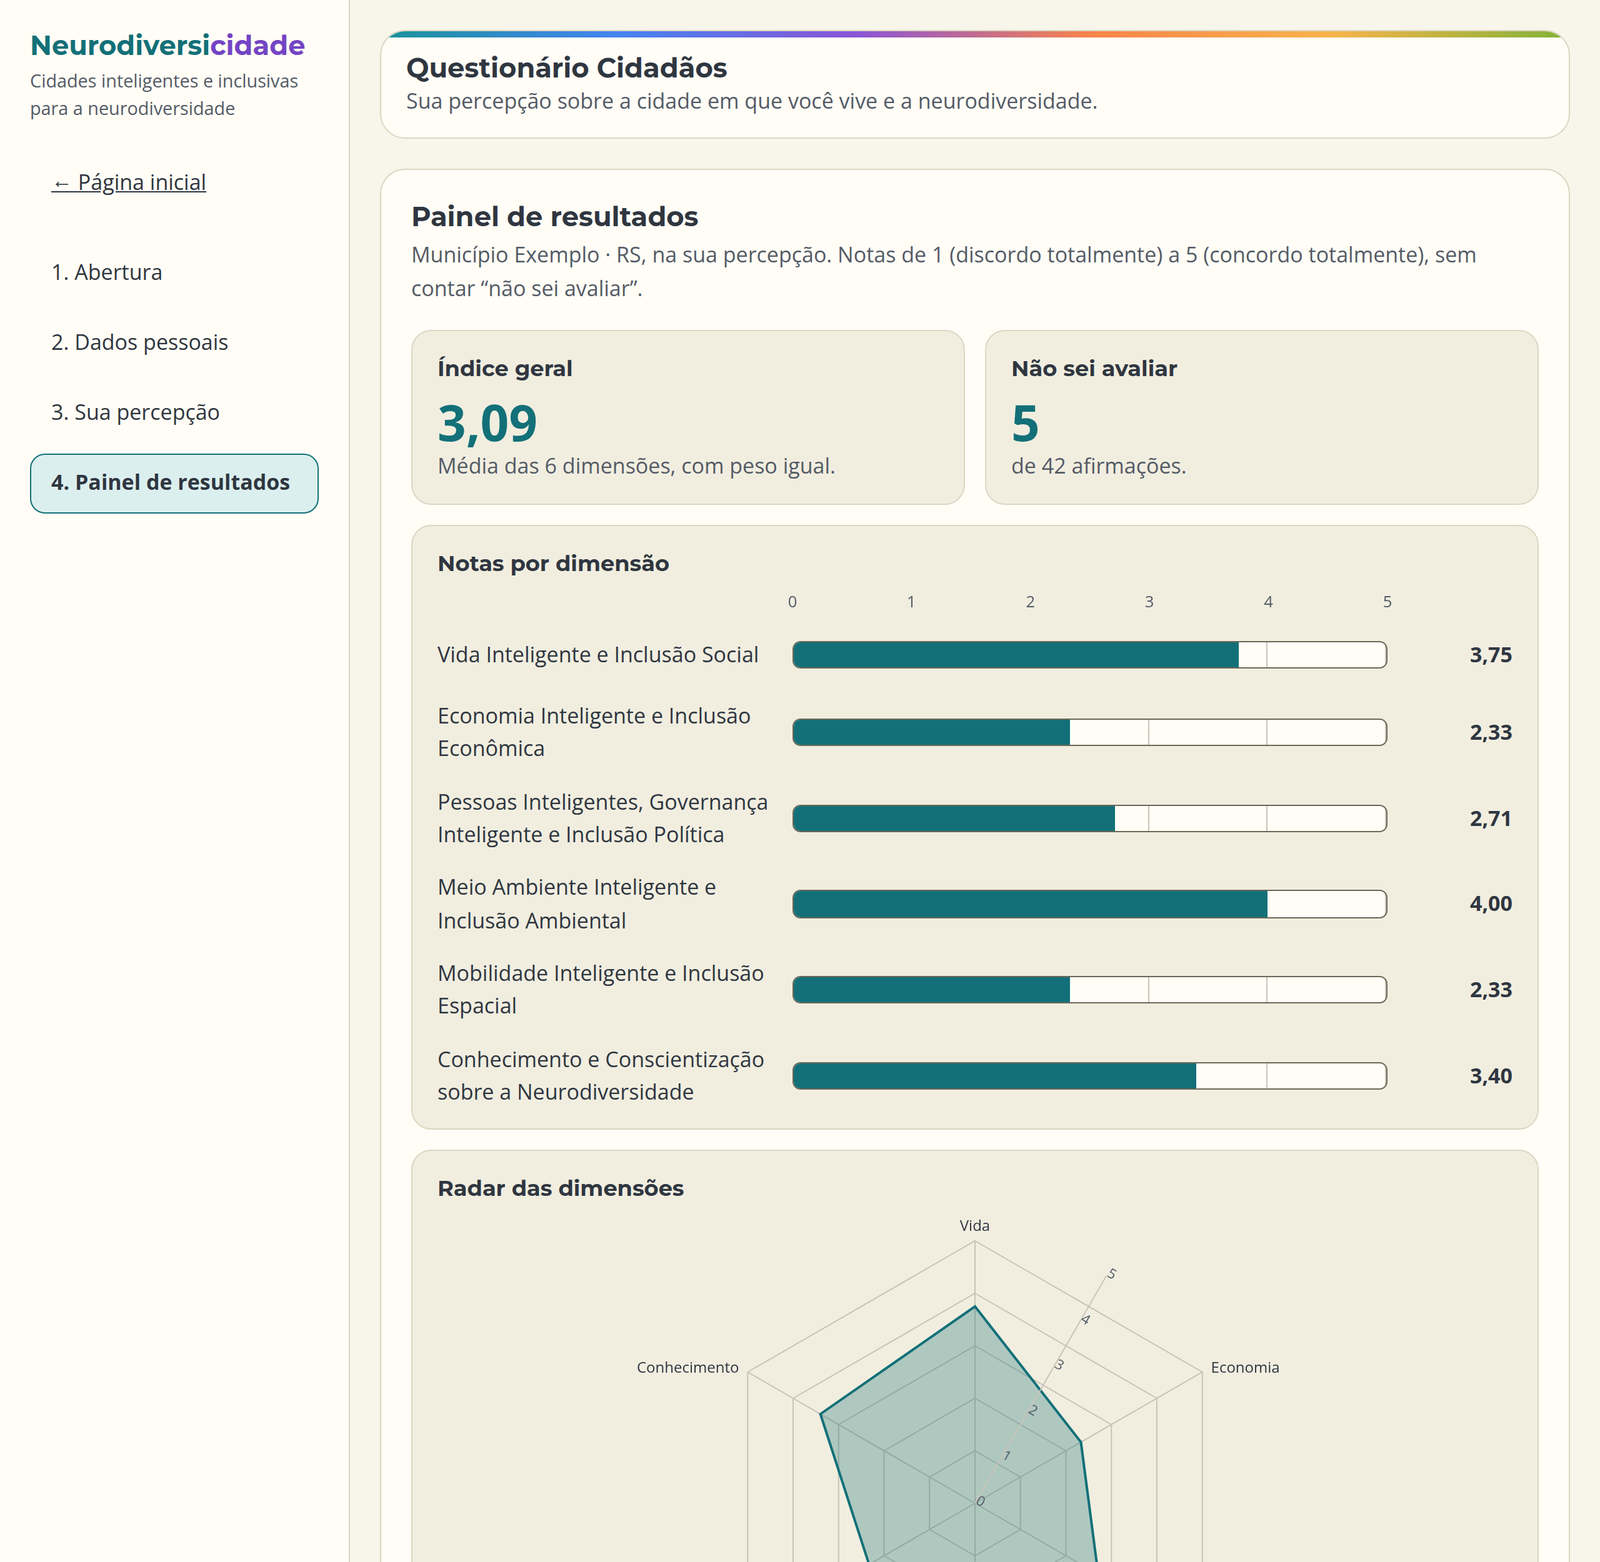
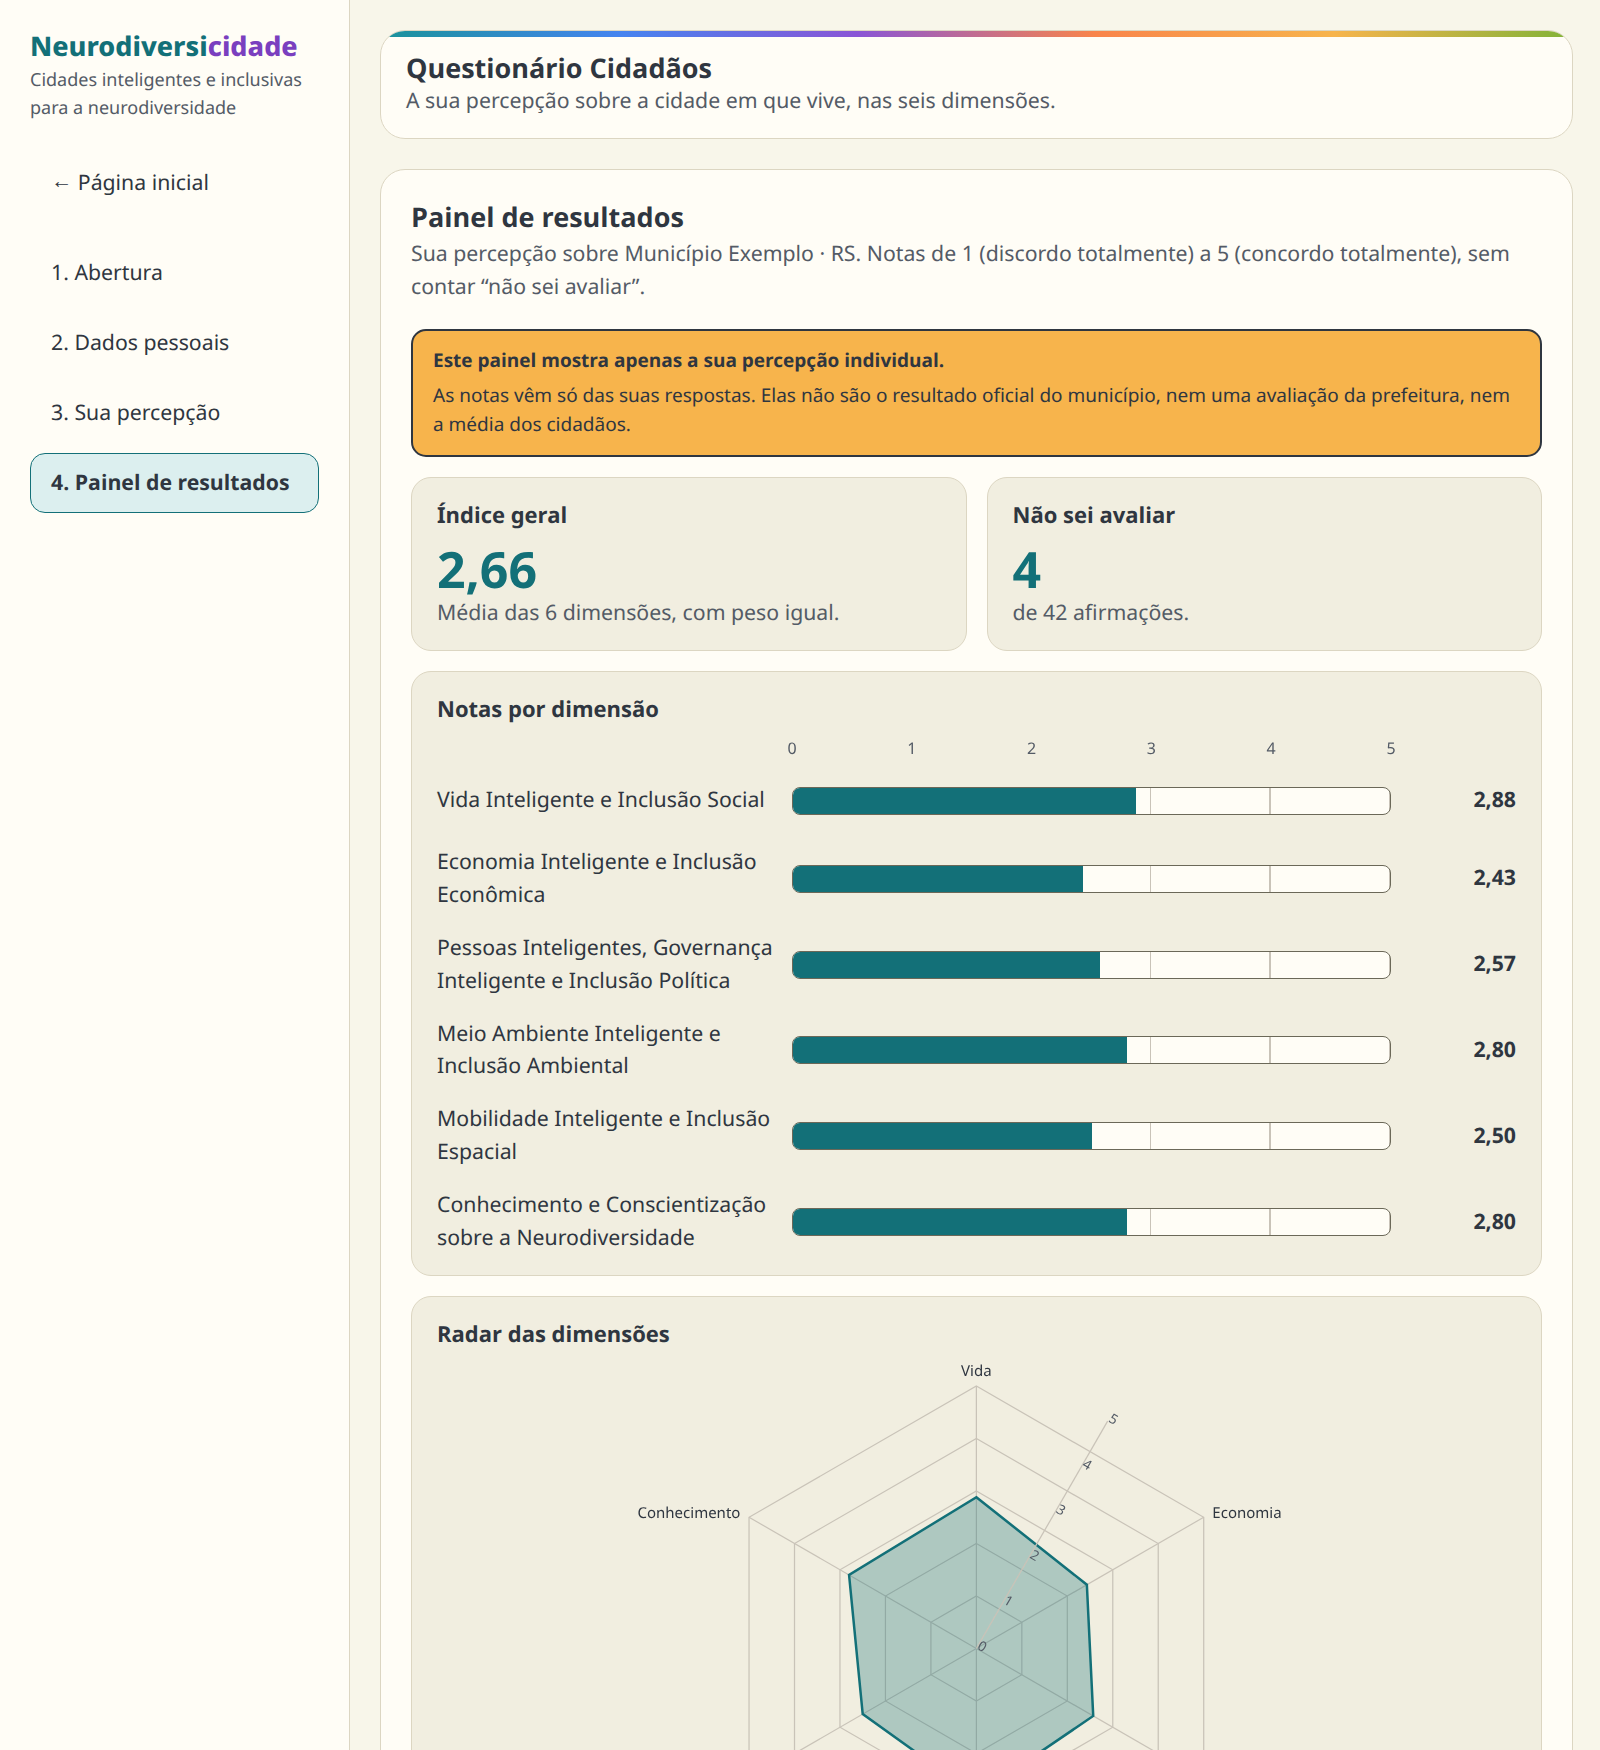
docs: refresh screenshots, add mobile views and citizen PDF

diff --git a/README.md b/README.md
@@ -7,7 +7,8 @@ pessoas neurodivergentes, com dois públicos:
   recebem na hora um painel com gráficos, um relatório em PDF e a comparação com
   municípios de perfil semelhante, sem que nenhum município seja identificado.
 - **Cidadãos** dão a sua percepção sobre a cidade em que vivem, de forma
-  anônima, e veem o resultado em um painel próprio.
+  anônima, e veem o resultado em um painel próprio, que deixa claro que aquela
+  é uma percepção individual e não o resultado do município.
 
 Projeto desenvolvido para um grupo de pesquisa universitário. **O código-fonte é
 privado.** Este repositório é uma vitrine de portfólio e as telas mostram apenas
@@ -28,9 +29,18 @@ dados fictícios.
 | --- | --- |
 | ![Comparação anônima com municípios de mesmo porte e região](docs/screenshots/comparacao.png) | ![Relatório para impressão com a média do grupo](docs/screenshots/relatorio.png) |
 
-| Painel do cidadão |
-| --- |
-| ![Painel do cidadão com notas por dimensão](docs/screenshots/cidadao.png) |
+| Painel do cidadão | PDF do cidadão |
+| --- | --- |
+| ![Painel do cidadão com aviso de percepção individual](docs/screenshots/cidadao.png) | ![PDF de uma página com a faixa "percepção individual"](docs/screenshots/relatorio-cidadao.png) |
+
+## No celular
+
+Todas as telas se adaptam ao celular: a navegação por etapas vira uma faixa no
+topo e os cartões e gráficos passam para uma coluna.
+
+| Página inicial | Questionário | Resultado | Comparação | Cidadão |
+| --- | --- | --- | --- | --- |
+| ![Página inicial no celular](docs/screenshots/celular-inicio.png) | ![Questionário no celular](docs/screenshots/celular-questionario.png) | ![Resultado no celular](docs/screenshots/celular-resultado.png) | ![Comparação no celular](docs/screenshots/celular-comparacao.png) | ![Painel do cidadão no celular](docs/screenshots/celular-cidadao.png) |
 
 ## O que a plataforma faz
 
@@ -48,10 +58,17 @@ dados fictícios.
   depois só porte, depois todos, parando no primeiro grupo com pelo menos 5
   municípios, para que nenhum seja identificável.
 - **Relatório em PDF** com layout próprio para impressão, incluindo a média do
-  grupo de comparação.
+  grupo de comparação. O cidadão também baixa um PDF de uma página, marcado no
+  topo, no corpo e no rodapé como percepção individual, para não circular como
+  se fosse o resultado oficial da cidade.
+- **E-book de boas práticas** para download ao fim dos dois questionários, com
+  o link também dentro dos PDFs: quem receber o arquivo depois ainda encontra o
+  material.
 - **Validação do respondente sem travar o envio:** o gestor confirma o e-mail
   num link enviado depois da resposta, e a equipe também pode validar
-  manualmente pelo painel administrativo.
+  manualmente pelo painel administrativo. A tela final mostra para qual
+  endereço o link foi enviado, para o gestor perceber na hora um erro de
+  digitação e baixar o PDF enquanto ainda está na página.
 - **Análise por público no lado do cidadão:** as respostas são agrupadas em
   pessoas neurodivergentes, familiares e cidadãos em geral, a partir das
   perguntas de triagem.
@@ -108,6 +125,10 @@ sozinho. Backup do banco e atualização do servidor são feitos por scripts she
   backend refaz a conta para o CSV. As regras são espelhadas, inclusive o
   arredondamento, que difere entre Python e JavaScript, e um teste confere que
   os dois chegam ao mesmo número.
+- **PDF pela impressão do navegador.** Em vez de gerar PDF no servidor, a
+  página tem um layout próprio para impressão. Todas as medidas são
+  proporcionais à largura da folha, porque o Safari do iPhone muda a escala da
+  impressão e quebrava um layout em milímetros.
 - **TypeScript sem `any`.** Toda resposta da API é lida como `unknown` e
   validada antes do uso.
 - **Endpoints públicos com cuidado.** Cada endpoint declara as permissões de
